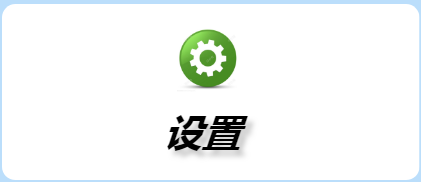
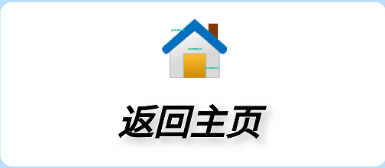
1

Changed region(s): [[0.0, 0.0, 1.0, 1.0], [0.3117, 0.625, 0.7169, 0.8631], [0.4052, 0.119, 0.5922, 0.506]]

diff --git a/app/src/main/assets/system/publish.html b/app/src/main/assets/system/publish.html
@@ -44,10 +44,10 @@
 	</div>
 
 	<div class="cms_publish">
-		<div style="margin-top:25px;">选择发布时间</div>
-		<div class="line" style="margin-top:10px">
-			<div class="width100">起始<input type="time" id="startTime" value="09:00" style="margin-left:5%;margin-bottom:4%;width:50%"/></div>
-			<div class="width100">截止<input type="time" id="endTime" value="17:00" style="margin-left:5%;width:50%"/></div>
+		<div style="display: none;">选择发布时间</div>
+		<div class="line" style="margin-top:10px" style="display: none;">
+			<div class="width100" style="display: none;">起始<input type="time" id="startTime" value="09:00" style="margin-left:5%;margin-bottom:4%;width:50%"/></div>
+			<div class="width100" style="display: none;">截止<input type="time" id="endTime" value="17:00" style="margin-left:5%;width:50%"/></div>
 		</div>
 		<div class="line" style="text-align:center;border:2px solid;border-radius:20%;padding:1%;">
 			<input type="radio"  value="1" name="screen_style" checked="checked">横屏

diff --git a/app/src/main/assets/index.html b/app/src/main/assets/index.html
@@ -79,11 +79,31 @@
 			</a>
 		</div>
 		<div class="list-row" style="width:95%;">
-			<a href="/system/setting.html">
-				<img src="images/sz.png">
+			<!--a href="/system/setting.html">
+			-->
+		
+				<img src="images/sz.png" class="home_btn";>
 			</a>
 		</div>
 	</div>
 </div>
+<script>
+$(function(){
+$('.home_btn').on('click',function(){
+$.ajax({
+  type:'POST',
+   url:'/sys/home',
+   data:{
+   "home":"home"
+   },
+cache:false,
+success:function(data){
+alert(data)
+}
+});
+})
+
+})
+</script>
 </body>
 </html>

diff --git a/app/src/main/java/com/cloud/cms/http/WebService.java b/app/src/main/java/com/cloud/cms/http/WebService.java
@@ -59,7 +59,6 @@ public class WebService  extends Service {
     private TemplateManager templateManager;
     private ServerHolderManager serverHolderManager;
     private PublishManager publishManager;
-    BroadcastReceiver tvBroadcastReceiver;
     private ProductManager productManager;
 
     public IBinder onBind(Intent arg0) { return null; }
@@ -69,12 +68,11 @@ public class WebService  extends Service {
         context=this;
         init();
         initService();
-        initBrocastReceiver();
+
     }
 
     /**一些初始化*/
     private void init(){
-        tvBroadcastReceiver=new USBBroadcastReceiver();
         fileListManager=new FileListManager();
         templateManager=new TemplateManager();
         serverHolderManager=new ServerHolderManager();
@@ -105,8 +103,8 @@ public class WebService  extends Service {
     }
 
     private  void initService(){
-        //Intent intent = new Intent(this, PowerService.class);
-        //startService(intent);
+        Intent intent = new Intent(this, PowerService.class);
+        startService(intent);
         server.get("/", new HttpServerRequestCallback() {
             @Override
             public void onRequest(AsyncHttpServerRequest request, AsyncHttpServerResponse response) {
@@ -191,13 +189,13 @@ public class WebService  extends Service {
                     break;
                 case "/sys/dms":  //广域发布
                     Log.i(tag,"======================DMS");
-                    PackageManager packageManager = getPackageManager();
-                    Intent intent=new Intent();
-                    intent =packageManager.getLaunchIntentForPackage("com.victgroup.signup.dmsclient");
-                    intent.setFlags(intent.FLAG_ACTIVITY_NEW_TASK);
-                    startActivity(intent);
-                    resultCommand.setResult(true);
-                    response.send(JSON.toJSONString(resultCommand));
+//                    PackageManager packageManager = getPackageManager();
+//                    Intent intent=new Intent();
+//                    intent =packageManager.getLaunchIntentForPackage("com.victgroup.signup.dmsclient");
+//                    intent.setFlags(intent.FLAG_ACTIVITY_NEW_TASK);
+//                    startActivity(intent);
+//                    resultCommand.setResult(true);
+//                    response.send(JSON.toJSONString(resultCommand));
                     break;
                 case "/sys/publish":     //单体发布
                     templateCommand=templateManager.getTemplate(paramstr); //构建模板
@@ -211,7 +209,20 @@ public class WebService  extends Service {
                     publishManager.showPublishHistory(response);
                     break;
                case "/sys/productList":     //商品列表
+                   FileManager fileManager=new FileManager();
+                   fileManager.copyDirectory(FileConstants.DEFAULT_USB_PRODUCT_PATH,FileConstants.DEFAULT_TV_PRODUCT_PATH);//测试复制
                    productManager.getAllProducts(response);
+                   break;
+               case "/sys/home":     //返回桌面
+                   Log.i(tag,"======================HOME");
+                   Intent _Intent;
+
+                   ComponentName _ComponentName ;
+                   _Intent = new Intent();
+                   _ComponentName = new ComponentName("com.android.launcher","com.android.launcher2.Launcher");
+                   _Intent.setComponent(_ComponentName);
+                   _Intent.setFlags(_Intent.FLAG_ACTIVITY_NEW_TASK);
+                   startActivity(_Intent);
                    break;
             }
         }catch (Exception e ){
@@ -250,11 +261,7 @@ public class WebService  extends Service {
         }
     }
 
-    private void initBrocastReceiver(){
-        IntentFilter filter=new IntentFilter(ActionConstants.ACTION_MEDIA_MOUNTED);//u 盘插入
-        filter.addAction(ActionConstants.ACTION_MEDIA_REMOVED);
-        registerReceiver(tvBroadcastReceiver,filter);
-    }
+
 
 
     public void startapk(String pkg,String activity){
@@ -268,10 +275,6 @@ public class WebService  extends Service {
     @Override
     public void onDestroy() {
         super.onDestroy();
-        if(tvBroadcastReceiver!=null){
-            unregisterReceiver(tvBroadcastReceiver);
-            tvBroadcastReceiver=null;
-        }
     }
 
     @Override

diff --git a/app/src/main/java/com/cloud/cms/activity/CMSActivity.java b/app/src/main/java/com/cloud/cms/activity/CMSActivity.java
@@ -4,12 +4,17 @@ import android.content.BroadcastReceiver;
 import android.content.Context;
 import android.content.Intent;
 import android.content.IntentFilter;
+import android.net.wifi.WifiInfo;
+import android.net.wifi.WifiManager;
 import android.os.Build;
+import android.os.Handler;
 import android.support.v7.app.AppCompatActivity;
 import android.os.Bundle;
 import android.util.Log;
+import android.view.KeyEvent;
 import android.widget.ImageView;
 import android.widget.RelativeLayout;
+import android.widget.Toast;
 
 import com.alibaba.fastjson.JSON;
 import com.cloud.cms.R;
@@ -17,7 +22,9 @@ import com.cloud.cms.command.TemplateCommand;
 import com.cloud.cms.config.Config;
 import com.cloud.cms.constants.ActionConstants;
 import com.cloud.cms.http.WebService;
+import com.cloud.cms.manager.ApManager;
 import com.cloud.cms.manager.PreferenceManager;
+import com.cloud.cms.manager.broadcast.USBBroadcastReceiver;
 import com.cloud.cms.manager.template.TemplateManager;
 import com.cloud.cms.util.NetworkUtil;
 import com.cloud.cms.util.Validator;
@@ -29,15 +36,35 @@ public class CMSActivity extends BaseActivity {
     private String tag="CMSActivity";
     private RelativeLayout main_layout;
     private BroadcastReceiver tvBroadcastReceiver;
+    private BroadcastReceiver usbBroadcastReceiver;
     private Context context;
+    int keycount=0;
     TemplateManager templateManager;
 
     protected void onCreate(Bundle savedInstanceState) {
         super.onCreate(savedInstanceState);
         main_layout = new RelativeLayout(this);
         context=this;
+        Log.i(tag,"热点状态"+ApManager.isApOn(context));
+        if(ApManager.isApOn(context)){
+        }else {
+            Log.i(tag,"开热点");
+            ApManager.openHotspot(context,"CMS信息发布","12345678");
+            new Handler().postDelayed(new Runnable(){
+                public void run() {
+                    //String ap=ApManager.getHotspotLocalIpAddress(context);
+
+                    Toast.makeText(getApplicationContext(),"发布地址:192.168.43.1:"+Config.SERVER_PORT,Toast.LENGTH_LONG).show();
+
+                    Log.i(tag,"======ip:"+NetworkUtil.getIPAddress(context)+":"+Config.SERVER_PORT);
+                }
+            }, 7000);
+        }
+
+
+
         templateManager=new TemplateManager();
-        Log.i(tag,"======ip:"+NetworkUtil.getIPAddress(context)+":"+Config.SERVER_PORT);
+        //Log.i(tag,"======ip:"+NetworkUtil.getIPAddress(context)+":"+Config.SERVER_PORT);
         setContentView(main_layout);
         Intent intent = new Intent(CMSActivity.this, WebService.class);
         if (Build.VERSION.SDK_INT >= Build.VERSION_CODES.O) {
@@ -83,7 +110,15 @@ public class CMSActivity extends BaseActivity {
             }
         };
         registerReceiver(tvBroadcastReceiver,filter);
+
+        //U盘监听
+//        usbBroadcastReceiver=new USBBroadcastReceiver();
+//        IntentFilter usbfilter=new IntentFilter(ActionConstants.ACTION_MEDIA_MOUNTED);//u 盘插入
+//        filter.addAction(ActionConstants.ACTION_MEDIA_REMOVED);
+//        registerReceiver(usbBroadcastReceiver,filter);
     }
+
+
 
     /**
      * 加载模板
@@ -99,5 +134,25 @@ public class CMSActivity extends BaseActivity {
             unregisterReceiver(tvBroadcastReceiver);
             tvBroadcastReceiver=null;
         }
+        if(usbBroadcastReceiver!=null){
+            unregisterReceiver(usbBroadcastReceiver);
+            usbBroadcastReceiver=null;
+        }
     }
+
+    @Override
+    public boolean onKeyDown(int keyCode, KeyEvent event) {
+        if(keyCode==KeyEvent.KEYCODE_1){
+              keycount++;
+              if (keycount%3==0){
+
+            }
+
+        }
+        return super.onKeyDown(keyCode, event);
+    }
+
+
+
+
 }

diff --git a/app/src/main/java/com/cloud/cms/config/Config.java b/app/src/main/java/com/cloud/cms/config/Config.java
@@ -55,4 +55,6 @@ public class Config {
      * 服务端口号
      */
     public static final int SERVER_PORT=13521;
+
+    public static final String ORIENTATION_ACTION = "victgroup.action.orientation";
 }
